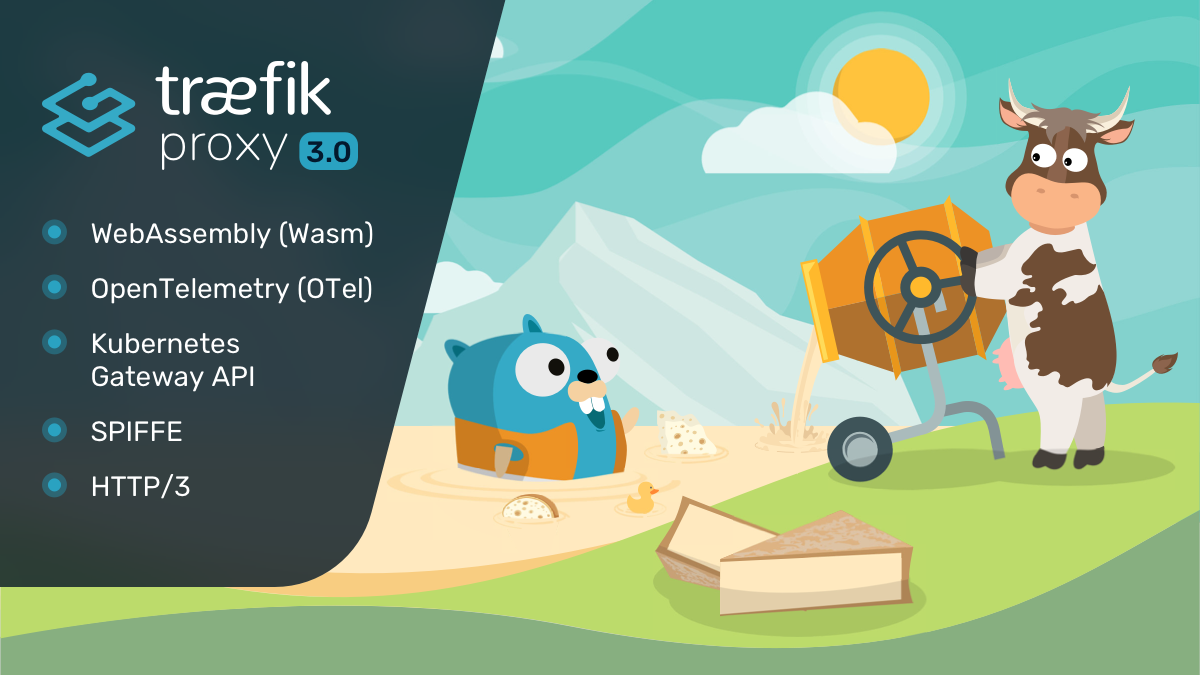
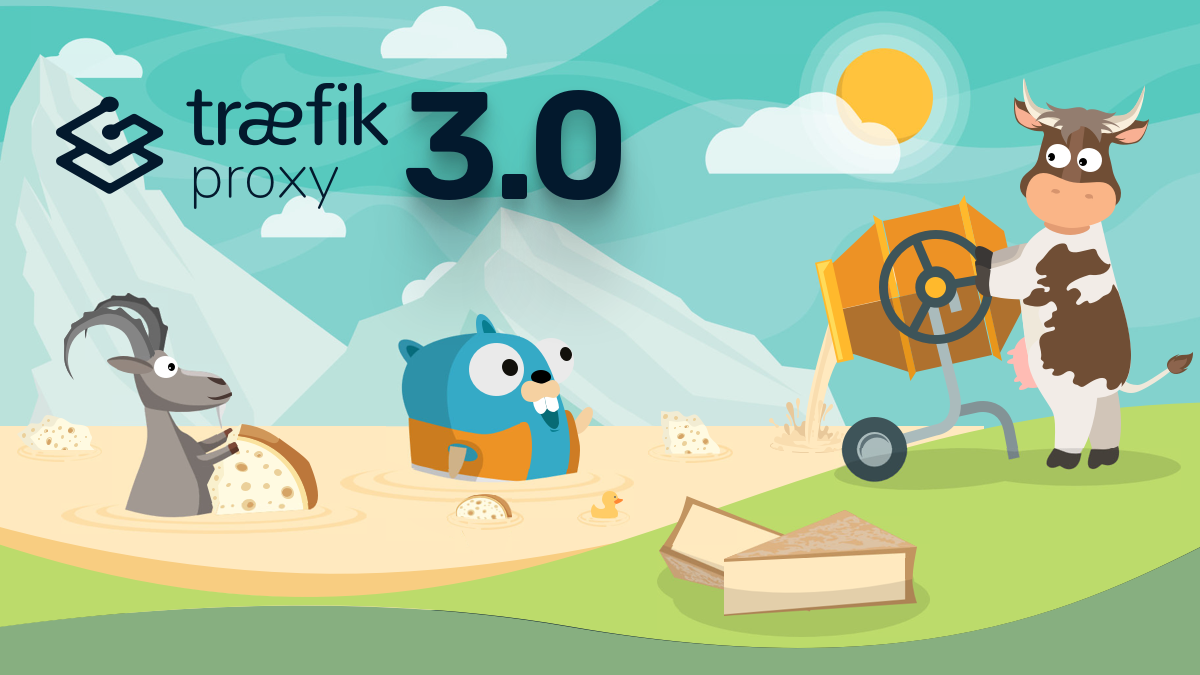
feat: update versions

diff --git a/readme.md b/readme.md
@@ -63,12 +63,18 @@ gantt
         v2.9.0: crit, milestone, v29, 2022-10-03 16:17:58, 0d
         v2.10: after v29, 2023-07-24 16:44:05
         v2.10.0: crit, milestone, v210, 2023-04-24 15:38:05, 0d
-        v2.11: after v210, 2024-05-27 00:00:00
+        v2.11: after v210, 2025-01-29 00:00:00
         v2.11.0: crit, milestone, v211, 2024-02-12 16:14:04, 0d
 
     section v3
-        v3.0: after v28, 2024-05-27 00:00:00
-        v3.0.0: crit, milestone, v30, 2024-04-29 16:06:04, 0d
+        v3.0: after v28, 2024-07-02 15:42:03
+        v3.0.0: crit, milestone, v30, 2022-12-05 16:58:04, 0d
+        v3.1: after v30, 2024-10-28 11:34:03
+        v3.1.0: crit, milestone, v31, 2024-07-15 16:38:04, 0d
+        v3.2: after v31, 2025-01-07 15:10:04
+        v3.2.0: crit, milestone, v32, 2025-01-07 15:10:04, 0d
+        v3.3: after v32, 2025-02-01 00:00:00
+        v3.3.0: crit, milestone, v33, 2025-01-06 12:04:04, 0d
 ```
 
 ## TOC
@@ -98,6 +104,9 @@ gantt
 - [v2.10](#v210-saintmarcelin)
 - [v2.11](#v211-mimolette)
 - [v3.0](#v30-beaufort)
+- [v3.1](#v31-comte)
+- [v3.2](#v32-munster)
+- [v3.3](#v33-saintnectaire)
 
 ## First Commit
 
@@ -935,7 +944,7 @@ gantt
 
 <p align="center">
     <picture>
-    <img alt="v2.10-saintmarcelin" title="v3.0-beaufort" width="400" src="./img/traefik-v3.0-beaufort.png">
+    <img alt="v3.0-beaufort" title="v3.0-beaufort" width="400" src="./img/traefik-v3.0-beaufort.png">
     </picture>
 </p>
 
@@ -959,11 +968,110 @@ gantt
         v3.0.0-rc5: milestone, 2024-04-11 18:24:03, 0d
         v3.0.0: crit, milestone, 2024-04-29 16:06:04, 0d
         v3.0.1: milestone, 2024-05-22 15:08:04, 0d
+        v3.0.2: milestone, 2024-06-10 16:34:04, 0d
+        v3.0.3: milestone, 2024-06-18 16:10:06, 0d
+        v3.0.4: milestone, 2024-07-02 15:42:03, 0d
 ```
 
 | version      | date                      | fix |
 |--------------|---------------------------|-----|
 | v3.0.0-beta1 | 2022-12-05 16:58:04 +0100 | 5   |
 | v3.0.0-rc1   | 2024-02-13 14:38:03 +0100 | 5   |
-| v3.0.0       | 2024-04-29 16:06:04 +0200 | 1   |
-| v3.0.1       | 2024-05-22 15:08:04 +0200 |     |
+| v3.0.0       | 2024-04-29 16:06:04 +0200 | 4   |
+| v3.0.4       | 2024-07-02 15:42:03 +0200 |     |
+
+## v3.1, comte
+
+<p align="center">
+    <picture>
+    <img alt="v3.1-comte" title="v3.1-comte" width="400" src="./img/traefik-v3.1-comte.jpg">
+    </picture>
+</p>
+
+```mermaid
+gantt
+    title Timeline
+    todayMarker off
+    tickInterval 1month
+    axisFormat %Y-%m
+    dateFormat YYYY-MM-DD HH:mm:ss
+    section v3.1
+        v3.1.0-rc1: milestone, 2024-06-27 16:28:03, 0d
+        v3.1.0-rc2: milestone, 2024-06-28 10:42:03, 0d
+        v3.1.0-rc3: milestone, 2024-07-02 17:18:03, 0d
+        v3.1.0: crit, milestone, 2024-07-15 16:38:04, 0d
+        v3.1.1: milestone, 2024-07-30 15:52:03, 0d
+        v3.1.2: milestone, 2024-08-06 15:34:03, 0d
+        v3.1.3: milestone, 2024-09-16 17:06:03, 0d
+        v3.1.4: milestone, 2024-09-19 15:44:04, 0d
+        v3.1.5: milestone, 2024-10-02 14:42:05, 0d
+        v3.1.6: milestone, 2024-10-09 15:54:05, 0d
+        v3.1.7: milestone, 2024-10-28 11:34:03, 0d
+```
+
+| version    | date                      | fix |
+|------------|---------------------------|-----|
+| v3.1.0-rc1 | 2024-06-27 16:28:03 +0200 | 3   |
+| v3.1.0     | 2024-07-15 16:38:04 +0200 | 7   |
+| v3.1.7     | 2024-10-28 11:34:03 +0100 |     |
+
+## v3.2, munster
+
+<p align="center">
+    <picture>
+    <img alt="v3.2-munster" title="v3.2-munster" width="400" src="./img/traefik-v3.2-munster.jpg">
+    </picture>
+</p>
+
+```mermaid
+gantt
+    title Timeline
+    todayMarker off
+    tickInterval 1month
+    axisFormat %Y-%m
+    dateFormat YYYY-MM-DD HH:mm:ss
+    section v3.2
+        v3.2.0-rc1: milestone, 2024-10-02 16:24:04, 0d
+        v3.2.0-rc2: milestone, 2024-10-09 17:16:04, 0d
+        v3.2.0: crit, milestone, 2024-10-28 15:46:04, 0d
+        v3.2.1: milestone, 2024-11-20 17:28:04, 0d
+        v3.2.2: milestone, 2024-12-10 15:04:04, 0d
+        v3.2.3: milestone, 2024-12-16 11:20:04, 0d
+        v3.2.4: milestone, 2025-01-06 11:04:04, 0d
+        v3.2.5: milestone, 2025-01-07 15:10:04, 0d
+```
+
+| version    | date                      | fix |
+|------------|---------------------------|-----|
+| v3.2.0-rc1 | 2024-10-02 16:24:04 +0200 | 2   |
+| v3.2.0     | 2024-10-28 15:46:04 +0100 | 5   |
+| v3.2.5     | 2025-01-07 15:10:04 +0100 |     |
+
+## v3.3, saintnectaire
+
+<p align="center">
+    <picture>
+    <img alt="v3.3-saintnectaire" title="v3.3-saintnectaire" width="400" src="./img/traefik-v3.3-saintnectaire.png">
+    </picture>
+</p>
+
+```mermaid
+gantt
+    title Timeline
+    todayMarker off
+    tickInterval 1month
+    axisFormat %Y-%m
+    dateFormat YYYY-MM-DD HH:mm:ss
+    section v3.3
+        v3.3.0-rc1: milestone, 2024-12-16 15:30:05, 0d
+        v3.3.0-rc2: milestone, 2024-12-20 11:52:04, 0d
+        v3.3.0: crit, milestone, 2025-01-06 12:04:04, 0d
+        v3.3.1: milestone, 2025-01-07 15:46:04, 0d
+        v3.3.2: milestone, 2025-01-14 16:46:04, 0d
+```
+
+| version    | date                      | fix |
+|------------|---------------------------|-----|
+| v3.3.0-rc1 | 2024-12-16 15:30:05 +0100 | 2   |
+| v3.3.0     | 2025-01-06 12:04:04 +0100 | 2+  |
+| v3.3.2     | 2025-01-14 16:46:04 +0100 |     |
